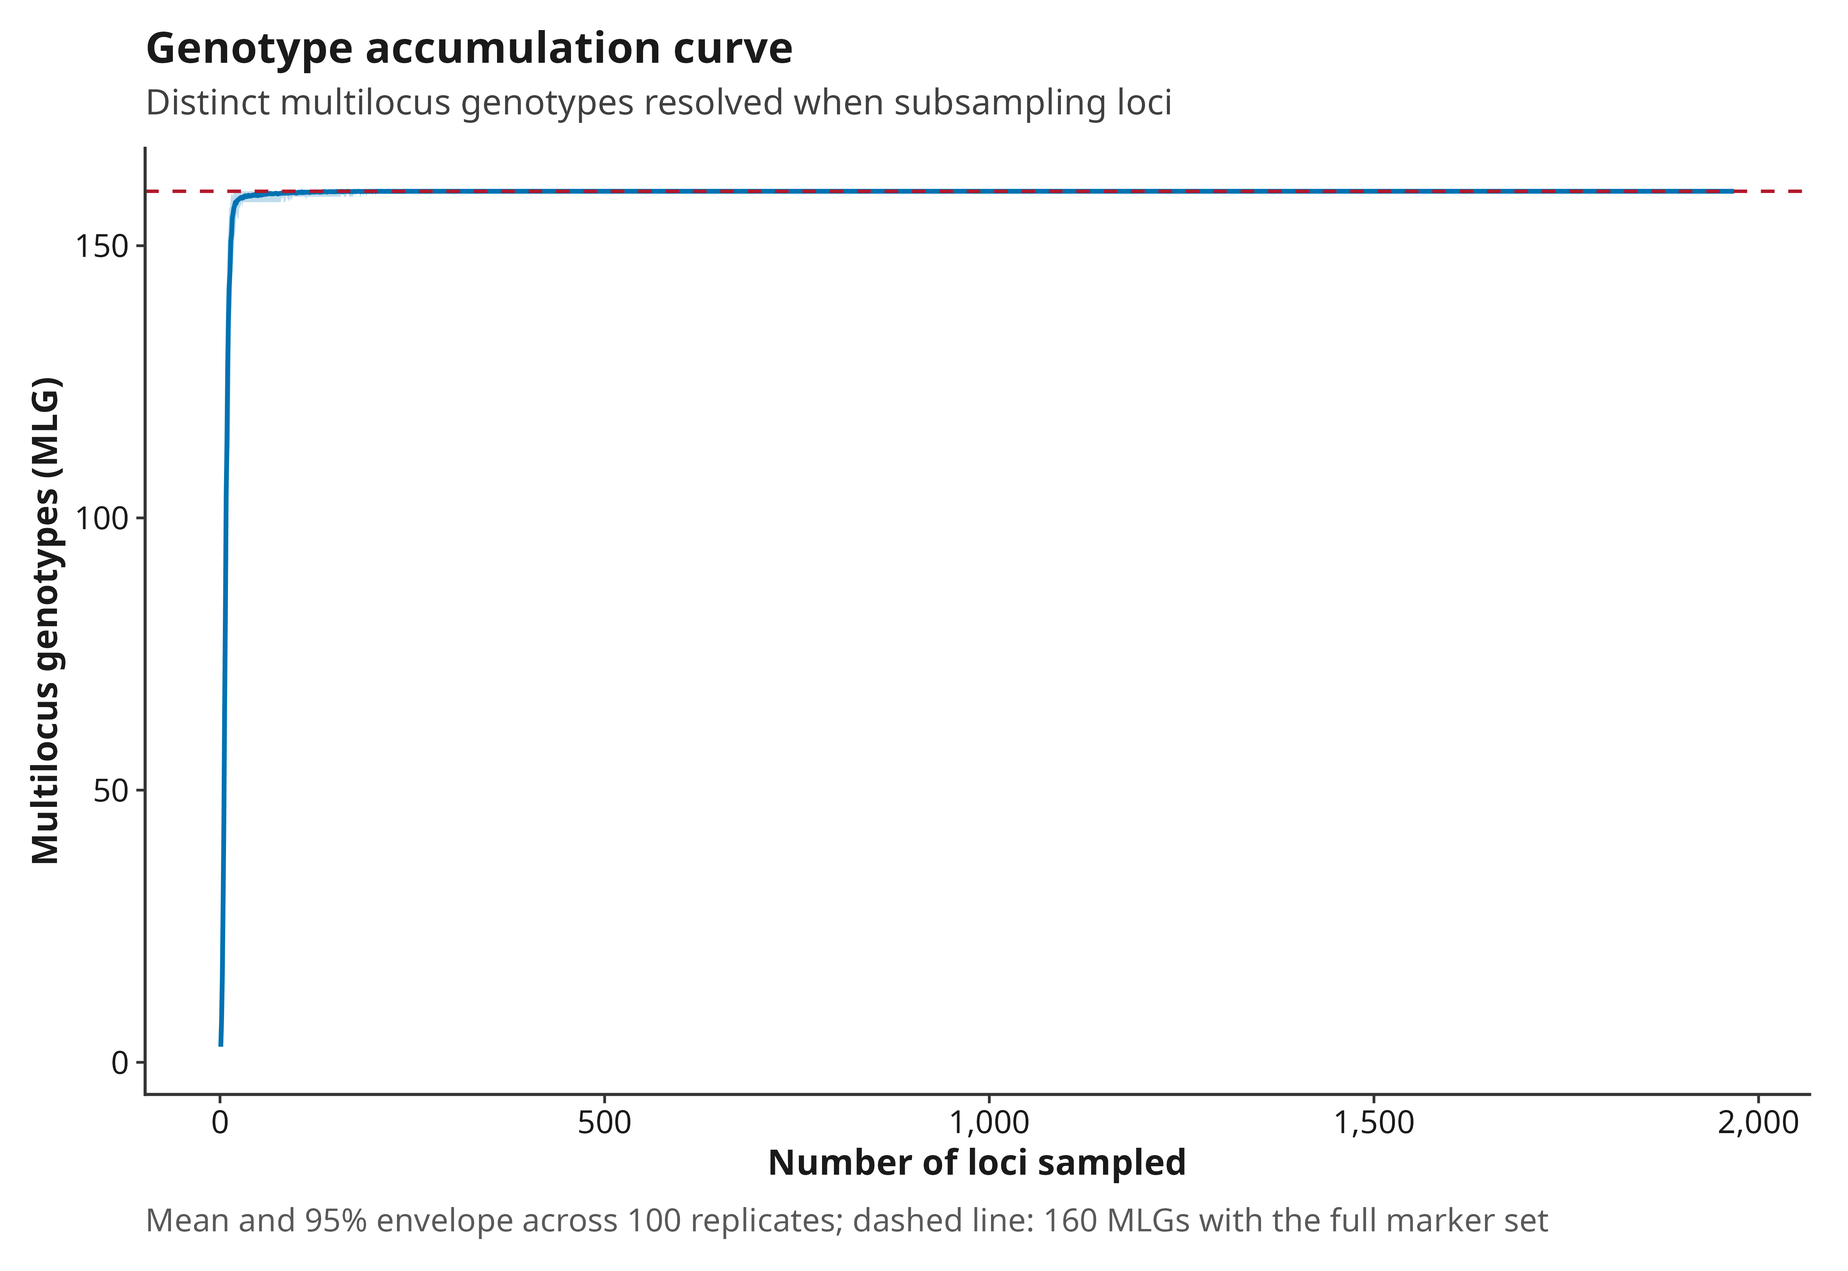
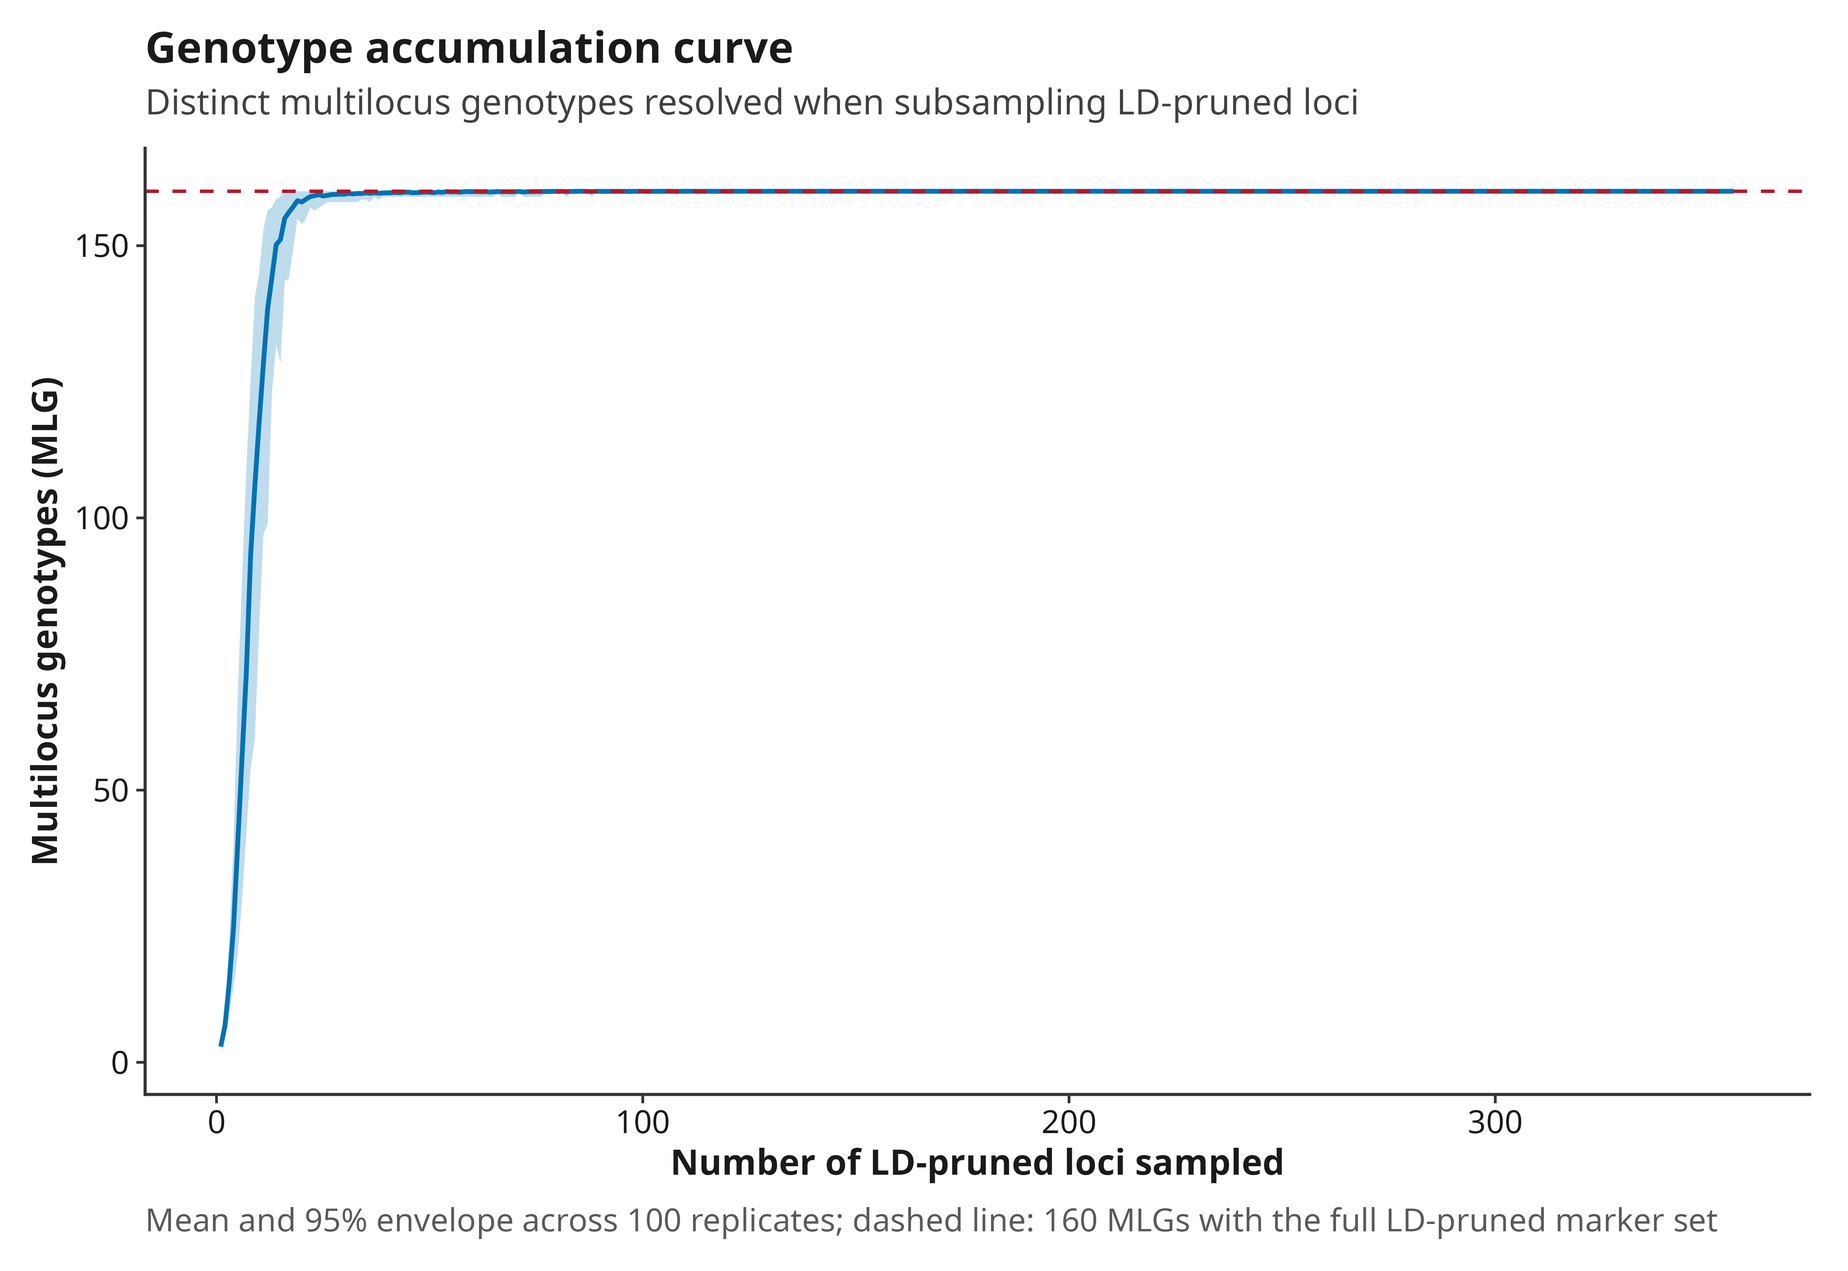
Fix a real production incident: clonality took 29+ hours on a 561,767-locus unpruned cohort
Reported by the same real user who runs similar datasets frequently
and needed this under an hour. Root-caused via their actual,
currently-running production container: the forked poppr::poppr()
child (clonality_run_poppr_isolated()) was still alive and burning
100% CPU after 29+ hours, confirming it was genuinely computing, not
deadlocked.

Direct scaling measurement (500 to 20,000 synthetic loci, everything
else held fixed) confirmed poppr()'s Ia/rbarD computation grows
superlinearly in locus count: the local growth exponent climbed from
~1.0 to ~1.6 across that range, not a flat per-locus cost.
Extrapolating that measured curve to 561,767 loci predicts ~28.5
hours, matching the real run almost exactly. genotype_curve()'s
resampling has the same problem (timed out past 5 minutes at just
20,000 loci in the same investigation). encode/as.genclone/mlg.id()
stayed negligible at every scale tested -- the cost lives entirely
inside poppr's own Ia/rbarD and genotype-curve code, not in anything
this package does to prepare its input.

Fixed by routing poppr()'s Ia/rbarD summary and the genotype
accumulation curve to the LD-pruned marker set (the same set already
used for kinship/PCA/DAPC) instead of the full unpruned one, while
exact multilocus-genotype duplicate detection (mlg.id()/
57_MLG_groups.tsv) stays on the full unpruned set -- thinning that
specifically would raise the real risk of false-positive "identical
[…]

diff --git a/wiki/Results-and-Interpretation.md b/wiki/Results-and-Interpretation.md
@@ -819,44 +819,56 @@ related are these two samples," but "do these two samples have *exactly*
 the same genotype at every analyzed locus." That's the standard signal for
 clonal replicates, accidental resampling, or duplicate sample submissions --
 relevant for any population-genetic dataset, not only strictly outbreeding
-ones. `56_MLG_diversity_summary.tsv` reports per-population (and overall)
-genotypic diversity: the number of distinct multilocus genotypes (MLG)
-recovered, rarefied expected MLG (eMLG), Shannon's H, Stoddart-Taylor's G,
-Simpson's lambda, evenness (E.5), and the index of association (Ia/rbarD), a
-measure of non-random association among loci. `57_MLG_groups.tsv` lists any
-group of samples sharing an identical genotype, flagging groups that span
-more than one recorded population -- a stronger, discrete corroboration of
-the kind of cross-population duplicate or mislabeling issue kinship's
-continuous score can only suggest.
+ones.
 
-![Genotype accumulation curve from the quickstart example: mean and 95% envelope of distinct multilocus genotypes resolved as loci are subsampled, with a dashed line at the full marker set's MLG count](figures/58_genotype_accumulation_curve.png)
+Two genuinely different marker sets feed this module, deliberately.
+`57_MLG_groups.tsv` (exact duplicate-genotype detection, via `mlg.id()`)
+uses the full, unpruned QC-passing locus set -- fewer markers would make it
+*more* likely that two genuinely different individuals coincidentally match
+at every retained locus, so exact identity needs maximum discriminating
+power. `56_MLG_diversity_summary.tsv` (MLG/eMLG/Shannon's H/Stoddart-
+Taylor's G/Simpson's lambda/evenness/Ia/rbarD, via `poppr()`) and the
+genotype accumulation curve below instead use the LD-pruned locus set. Both
+originally reused the full unpruned set "for consistency with AMOVA," but a
+real production run found that choice was wrong on two counts at once: a
+50-sample, 561,767-locus unpruned cohort took 29+ hours in `poppr()`'s
+Ia/rbarD computation alone (confirmed superlinear in locus count by direct
+scaling measurement, not merely slow); and Ia/rbarD's own null-model
+interpretation assumes approximately independent input loci, so feeding it
+hundreds of thousands of physically linked SNPs mechanically inflates the
+appearance of non-random multilocus association through ordinary linkage,
+not real clonal signal. Running it on the LD-pruned set instead -- the same
+set already used for kinship/PCA/DAPC elsewhere in this pipeline -- fixes
+both problems together; see `R/clonality.R`'s top-of-file comment for the
+full measurement and reasoning.
+
+![Genotype accumulation curve from the quickstart example: mean and 95% envelope of distinct multilocus genotypes resolved as LD-pruned loci are subsampled, with a dashed line at the full LD-pruned marker set's MLG count](figures/58_genotype_accumulation_curve.png)
 
 On the quickstart example, all 160 samples have a unique multilocus genotype
-across the 1,969 QC-passing loci this module reuses from the diversity
-module (not the 357-SNP LD-pruned set kinship/PCA/tree use above) --
-`57_MLG_groups.tsv` is empty. Notably, this includes the one pair kinship
-above confidently classifies as `duplicate/MZ twin` (`NA19331`/`NA19334`,
-kinship = 0.4459): on this larger marker panel their genotypes are *not*
-bit-identical. That is not a contradiction, it is the expected difference
-between the two signals. Kinship's continuous estimator assigns a
-relatedness class from partial genetic similarity (even a genuine duplicate
-can show some genotyping noise or missing-data differences); exact
+-- `57_MLG_groups.tsv` is empty. This is computed on the full 1,969
+QC-passing loci this module reuses from the diversity module (not the
+357-SNP LD-pruned set kinship/PCA/tree use above), and includes the one pair
+kinship above confidently classifies as `duplicate/MZ twin`
+(`NA19331`/`NA19334`, kinship = 0.4459): on this larger marker panel their
+genotypes are *not* bit-identical. That is not a contradiction, it is the
+expected difference between the two signals. Kinship's continuous estimator
+assigns a relatedness class from partial genetic similarity (even a genuine
+duplicate can show some genotyping noise or missing-data differences); exact
 multilocus-genotype matching requires literal identity, and with almost
-2,000 markers even a very close pair is unlikely to match at every one. The
-genotype accumulation curve shows just how little data this distinction
-needs in practice: a mean of 150 of the 160 possible MLGs are already
-resolved with only 14 of the ~1,969 available loci, and every resampled
-replicate deterministically resolves all 160 by 174 loci.
+2,000 markers even a very close pair is unlikely to match at every one.
 
-Ia and rbarD are positive in every population and overall (Total Ia = 35.40,
-rbarD = 0.0185) -- read this cautiously, not as evidence of clonal
-reproduction in this outbreeding species. Ia/rbarD is designed to detect
-non-random association among loci assuming approximately independent
-markers; this module deliberately reuses diversity's full QC-passing locus
-set (not the LD-pruned set) for consistency with AMOVA, so a positive value
-here largely reflects ordinary physical linkage among nearby SNPs, not
-clonality. The MLG counts, diversity indices, and duplicate-detection table
-above are unaffected by that choice.
+The genotype accumulation curve and Ia/rbarD summary run on the 357-SNP
+LD-pruned set instead, and show just how little data the MLG distinction
+needs in practice: a mean of 150 of the 160 possible MLGs are already
+resolved with only 14 of the 357 available LD-pruned loci, and every
+resampled replicate deterministically resolves all 160 by 71 loci. Ia and
+rbarD are still positive overall (Total Ia = 2.28, rbarD = 0.0066) but far
+smaller than the full-unpruned-set values this module reported before this
+change (Ia = 35.40, rbarD = 0.0185) -- concrete confirmation that most of
+that earlier signal was ordinary physical linkage among nearby SNPs, not
+clonal structure, in this genuinely outbreeding human dataset. Read any
+remaining positive value cautiously either way, not as direct evidence of
+clonal reproduction.
 
 ## Sex-biased dispersal test
 

diff --git a/NEWS.md b/NEWS.md
@@ -1,3 +1,7 @@
+# popgenVCF 1.0.3.9000 development
+
+- **Fixed a real production incident: `clonality` took 29+ hours (still running when investigated) on a real 50-sample, 561,767-locus unpruned cohort, entirely inside `poppr::poppr()`'s Ia/rbarD computation.** Reported by the same real user who runs similar datasets frequently and needed this under an hour. Root-caused via a real, currently-running production container (confirmed the forked child was genuinely still computing, not deadlocked) and a direct scaling measurement (500 to 20,000 synthetic loci, everything else held fixed): `poppr()`'s runtime grows superlinearly in locus count, with the local growth exponent climbing from ~1.0 to ~1.6 across that range -- not a flat per-locus cost. Extrapolating that measured curve to 561,767 loci predicts ~28.5 hours, matching the real run almost exactly; `genotype_curve()`'s resampling has the same problem (timed out past 5 minutes at just 20,000 loci in the same investigation). `encode`/`as.genclone`/`mlg.id()` stayed negligible at every scale tested. Fixed by routing `poppr()`'s Ia/rbarD summary and the genotype accumulation curve to the LD-pruned marker set instead of the full unpruned one (the same set already used for kinship/PCA/DAPC), while exact multilocus-genotype duplicate detection (`mlg.id()`/`57_MLG_groups.tsv`) stays on the full unpruned set, since thinning that specifically would raise the real risk of false-positive "identical genotype" calls between genuinely different individuals. This is not only a performance fix: Ia/rbarD's own null-model interpretation assumes approximately independent input loci, so the module's previous full-unpruned-set choice ("for consistency with AMOVA") was already flagged in the wiki's own quickstart walkthrough as inflating apparent non-random association through ordinary linkage, not real clonal signal -- confirmed concretely on the quickstart example, where Total Ia dropped from 35.40 to 2.28 and rbarD from 0.0185 to 0.0066 once computed on the LD-pruned set. Degrades gracefully (matching the module's existing poppr-crash handling) on the rare dataset where LD pruning leaves fewer than two usable loci. Verified with new unit tests proving `mlg.id()` uses the full set (a genotype pair that only matches on the LD-pruned subset is correctly *not* flagged as a duplicate) and `poppr()`/the curve use the LD-pruned set (the reported total MLG count reflects the coarser panel, not the full one), plus a real end-to-end quickstart pipeline run confirming the wiring and updating the wiki/vignette walkthrough's numbers and figure to match. See `R/clonality.R`'s top-of-file comment for the full measurement and reasoning.
+
 # popgenVCF 1.0.3 development
 
 - **Parallelized `fst` and `genome_scan`'s remaining serial loops, using three different task shapes rather than one copy-pasted pattern.** The last of the modules surveyed alongside the `diversity` parallelization and `population_tree` vectorization above, on the same real production cohort. (1) `run_fst()`'s pairwise loop: each population pair's `snpgdsFst()` call scans the full QC-passing SNP set (500K+ on a real cohort, not the LD-pruned subset), a genuinely heavy, modest-count task -- forked per pair exactly like `diversity`'s per-population design, each worker opening its own independent GDS connection rather than sharing the parent's (`gdsfmt`'s documented fork-unsafety, same citation as the `diversity` entry below). (2) `run_genome_scan_fst()`'s per-window loop: a genome-wide scan has thousands of windows, each individually *cheap* (one `snpgdsFst()` call over a handful of SNPs) -- forking one process per window the way `fst`/`diversity` fork per task would pay fork overhead thousands of times over for little work each, so windows are instead split into exactly `workers` contiguous chunks via `parallel::splitIndices()` (the same balanced-partitioning helper `mclapply()` uses internally), and each worker opens one GDS connection and processes its whole chunk. (3) `run_genome_scan_diversity()`'s per-population loop: pure R/`data.table` work computed from the already-materialized locus table, no GDS handle involved at all, so it forks directly per population with no per-worker-connection dance -- the same profile as `diversity`'s own parallelization, just without the extra safety machinery that turns out not to be needed here. `bootstrap_fst()` was deliberately left sequential, out of scope: it is optional, gated behind `cfg$analyses$bootstrap$enabled`. Verified with new unit tests (`test-fst-parallel.R`, `test-genome-scan-parallel.R`: parallel output matches serial to `1e-12`, sequential fallback confirmed when no `gds_path` is supplied, and a forced per-worker/per-chunk failure surfaces a clear error rather than a corrupted result) and a real end-to-end pipeline run on the 160-sample, 8-population, ~99K-SNP quickstart dataset confirming identical `fst`/`genome_scan` output between `threads = 1` and `threads = 3`.

diff --git a/docs/ROADMAP.md b/docs/ROADMAP.md
@@ -206,7 +206,9 @@ As of the released v0.10.0 state (2026-08-01), every one of those technical crit
 
 The maintainer chose to add features before making the 1.0 decision above. This section tracks that work as it lands, kept current rather than left to drift the way the pre-reconciliation roadmap did.
 
-The package version on `main` during this work reached **1.0.0** on 2026-08-22 (having progressed through the **0.10.0.9000** development build following the archived, released **0.10.0**, per the standard `X.Y.Z.9000` convention), and the `v1.0.0` tag and GitHub Release were cut and Zenodo-archived on 2026-08-23. A real production incident (see below) then prompted an immediate **1.0.1** patch cut the same day, rather than the usual `X.Y.Z.9000` dev-suffix convention; a second same-day patch cut, **1.0.2**, followed for the ancestry-backend fix and metadata-column config work below; a third patch cut, **1.0.3**, followed for the diversity/population_tree/fst/genome_scan parallelization and vectorization batch below, again rather than leaving already-verified performance work sitting until unrelated future work prompted the next release. `DESCRIPTION`, `NEWS.md`'s development-version heading, and `README.md` are kept reconciled with it as this section grows.
+The package version on `main` during this work reached **1.0.0** on 2026-08-22 (having progressed through the **0.10.0.9000** development build following the archived, released **0.10.0**, per the standard `X.Y.Z.9000` convention), and the `v1.0.0` tag and GitHub Release were cut and Zenodo-archived on 2026-08-23. A real production incident (see below) then prompted an immediate **1.0.1** patch cut the same day, rather than the usual `X.Y.Z.9000` dev-suffix convention; a second same-day patch cut, **1.0.2**, followed for the ancestry-backend fix and metadata-column config work below; a third patch cut, **1.0.3**, followed for the diversity/population_tree/fst/genome_scan parallelization and vectorization batch below, again rather than leaving already-verified performance work sitting until unrelated future work prompted the next release. The package version on `main` is now **1.0.3.9000** (a development build following the archived, released **1.0.3**, same convention) -- `DESCRIPTION`, `NEWS.md`'s development-version heading, and `README.md` are kept reconciled with it as this section grows.
+
+- **2026-08-25 -- Fixed a real production incident: `clonality` took 29+ hours on a real 561,767-locus unpruned cohort, entirely inside `poppr::poppr()`'s Ia/rbarD computation.** Root-caused via the same real user's live production container plus a direct scaling measurement showing superlinear runtime growth in locus count; fixed by routing `poppr()`'s Ia/rbarD summary and the genotype accumulation curve to the LD-pruned marker set, while exact MLG duplicate detection stays on the full unpruned set (thinning that would risk false-positive "identical genotype" calls). Also the statistically correct input for Ia/rbarD, which assumes independent loci. See `NEWS.md` for full detail.
 
 - **2026-08-25 -- Cut `v1.0.3` as another immediate patch release**, for the diversity/population_tree/fst/genome_scan parallelization and vectorization batch below, matching the same reasoning and procedure as the `v1.0.1`/`v1.0.2` cuts.
 

diff --git a/inst/doc/ROADMAP.md b/inst/doc/ROADMAP.md
@@ -206,7 +206,9 @@ As of the released v0.10.0 state (2026-08-01), every one of those technical crit
 
 The maintainer chose to add features before making the 1.0 decision above. This section tracks that work as it lands, kept current rather than left to drift the way the pre-reconciliation roadmap did.
 
-The package version on `main` during this work reached **1.0.0** on 2026-08-22 (having progressed through the **0.10.0.9000** development build following the archived, released **0.10.0**, per the standard `X.Y.Z.9000` convention), and the `v1.0.0` tag and GitHub Release were cut and Zenodo-archived on 2026-08-23. A real production incident (see below) then prompted an immediate **1.0.1** patch cut the same day, rather than the usual `X.Y.Z.9000` dev-suffix convention; a second same-day patch cut, **1.0.2**, followed for the ancestry-backend fix and metadata-column config work below; a third patch cut, **1.0.3**, followed for the diversity/population_tree/fst/genome_scan parallelization and vectorization batch below, again rather than leaving already-verified performance work sitting until unrelated future work prompted the next release. `DESCRIPTION`, `NEWS.md`'s development-version heading, and `README.md` are kept reconciled with it as this section grows.
+The package version on `main` during this work reached **1.0.0** on 2026-08-22 (having progressed through the **0.10.0.9000** development build following the archived, released **0.10.0**, per the standard `X.Y.Z.9000` convention), and the `v1.0.0` tag and GitHub Release were cut and Zenodo-archived on 2026-08-23. A real production incident (see below) then prompted an immediate **1.0.1** patch cut the same day, rather than the usual `X.Y.Z.9000` dev-suffix convention; a second same-day patch cut, **1.0.2**, followed for the ancestry-backend fix and metadata-column config work below; a third patch cut, **1.0.3**, followed for the diversity/population_tree/fst/genome_scan parallelization and vectorization batch below, again rather than leaving already-verified performance work sitting until unrelated future work prompted the next release. The package version on `main` is now **1.0.3.9000** (a development build following the archived, released **1.0.3**, same convention) -- `DESCRIPTION`, `NEWS.md`'s development-version heading, and `README.md` are kept reconciled with it as this section grows.
+
+- **2026-08-25 -- Fixed a real production incident: `clonality` took 29+ hours on a real 561,767-locus unpruned cohort, entirely inside `poppr::poppr()`'s Ia/rbarD computation.** Root-caused via the same real user's live production container plus a direct scaling measurement showing superlinear runtime growth in locus count; fixed by routing `poppr()`'s Ia/rbarD summary and the genotype accumulation curve to the LD-pruned marker set, while exact MLG duplicate detection stays on the full unpruned set (thinning that would risk false-positive "identical genotype" calls). Also the statistically correct input for Ia/rbarD, which assumes independent loci. See `NEWS.md` for full detail.
 
 - **2026-08-25 -- Cut `v1.0.3` as another immediate patch release**, for the diversity/population_tree/fst/genome_scan parallelization and vectorization batch below, matching the same reasoning and procedure as the `v1.0.1`/`v1.0.2` cuts.
 

diff --git a/README.md b/README.md
@@ -18,7 +18,7 @@ runs of homozygosity, sliding-window genome scans, DAPC, AMOVA, population
 structure, spatial genetics, publication outputs, and machine-readable
 validation evidence.
 
-> Development series: **1.0.3** — active development on `main` toward
+> Development series: **1.0.3.9000** — active development on `main` toward
 > the next release, past the current stable release **1.0.2** (approved and
 > released 2026-08-23, [DOI 10.5281/zenodo.22072524](https://doi.org/10.5281/zenodo.22072524)).
 > No development build should be treated as release-approved unless its own
